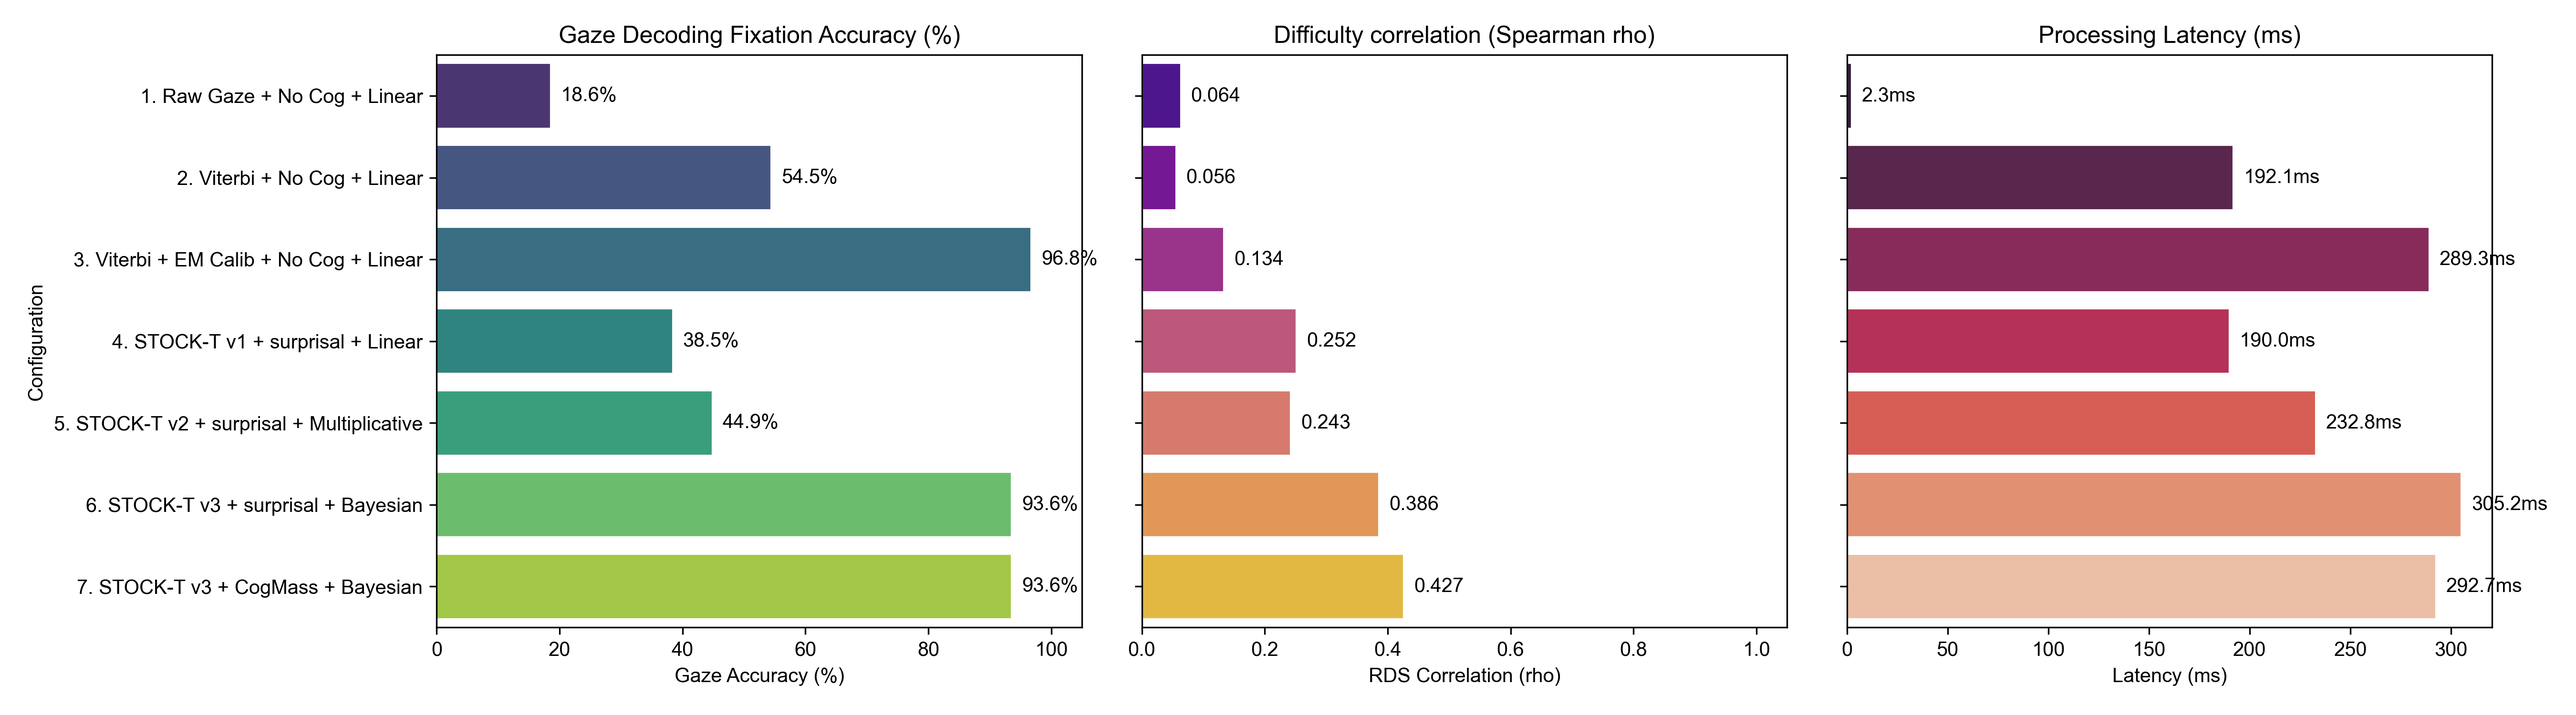
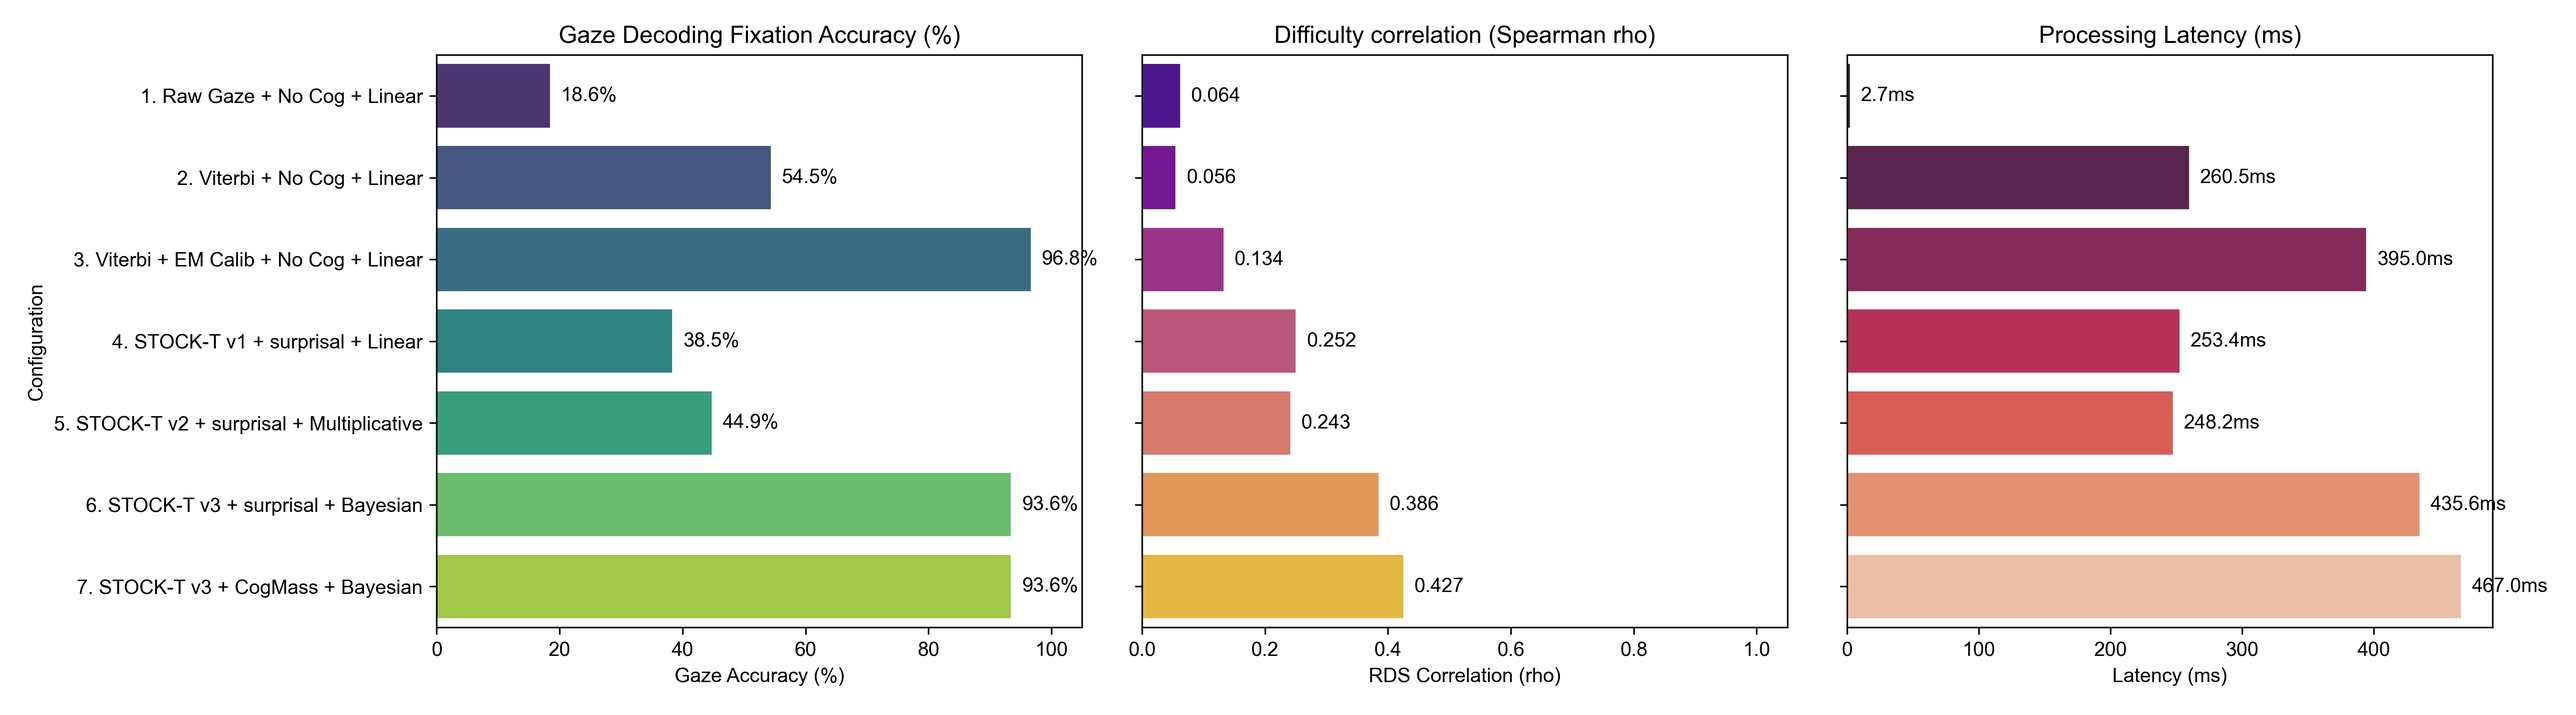
test: refresh scoped system diagnostic

diff --git a/PROJECT_OVERVIEW.md b/PROJECT_OVERVIEW.md
@@ -592,13 +592,15 @@ Data extracted from `output/demo_system_comparison.csv`:
 
 | Pipeline Configuration | Gaze Decoder | Cognitive Pipeline | Fusion Method | Gaze Accuracy (%) | RDS Correlation ($\rho$) | Latency (ms) | Academic Significance |
 | :--- | :--- | :--- | :--- | :---: | :---: | :---: | :--- |
-| **1. Raw Baseline** | Nearest Box (`nearest_box`) | None (`none`) | Linear | **18.59%** | 0.0636 | **2.34 ms** | Vulnerable to vertical drift (+45px). |
-| **2. Viterbi Base** | Standard HMM (`viterbi_base`) | None (`none`) | Linear | **54.49%** | 0.0561 | 192.06 ms | Saccade priors filter high-frequency noise. |
-| **3. Viterbi + EM** | Auto-Calibrating (`viterbi_em`) | None (`none`) | Linear | **96.79%** | 0.1342 | 289.29 ms | Highest gaze accuracy in this seeded simulation. |
-| **4. STOCK-T v1** | Attention-guided transition | Surprisal (`surprisal`) | Linear | **38.46%** | 0.2519 | 189.97 ms | Cognitive transition diagnostic. |
-| **5. STOCK-T v2** | Cognitive transition | Surprisal (`surprisal`) | Multiplicative | **44.87%** | 0.2428 | 232.85 ms | Multiplicative fusion diagnostic. |
-| **6. STOCK-T v3** | POM + EM | Surprisal (`surprisal`) | Bayesian | **93.59%** | 0.3864 | 305.19 ms | High simulated gaze recovery. |
-| **7. STOCK-T v3 + CogMass** | POM + EM | Cognitive mass | Bayesian | **93.59%** | **0.4267** | 292.67 ms | Best single-trial RDS correlation; provenance-risk for predictive claims. |
+| **1. Raw Baseline** | Nearest Box (`nearest_box`) | None (`none`) | Linear | **18.59%** | 0.0636 | **2.68 ms** | Vulnerable to vertical drift (+45px). |
+| **2. Viterbi Base** | Standard HMM (`viterbi_base`) | None (`none`) | Linear | **54.49%** | 0.0561 | 260.48 ms | Saccade priors filter high-frequency noise. |
+| **3. Viterbi + EM** | Auto-Calibrating (`viterbi_em`) | None (`none`) | Linear | **96.79%** | 0.1342 | 394.96 ms | Highest gaze accuracy in this seeded simulation. |
+| **4. STOCK-T v1** | Attention-guided transition | Surprisal (`surprisal`) | Linear | **38.46%** | 0.2519 | 253.41 ms | Cognitive transition diagnostic. |
+| **5. STOCK-T v2** | Cognitive transition | Surprisal (`surprisal`) | Multiplicative | **44.87%** | 0.2428 | 248.19 ms | Multiplicative fusion diagnostic. |
+| **6. STOCK-T v3** | POM + EM | Surprisal (`surprisal`) | Bayesian | **93.59%** | 0.3864 | 435.57 ms | High simulated gaze recovery. |
+| **7. STOCK-T v3 + CogMass** | POM + EM | Cognitive mass | Bayesian | **93.59%** | **0.4267** | 467.00 ms | Best single-trial RDS correlation; provenance-risk for predictive claims. |
+
+Latency is host-load dependent; the manifest records the exact hardware and per-run values.
 
 ---
 

diff --git a/INSTRUCTION.md b/INSTRUCTION.md
@@ -165,13 +165,13 @@ This simulates webcam drift (+45px vertical drift, 30-40px jitter) on a 156-word
 
 | Configuration | Gaze Accuracy (%) | RDS Correlation ($\rho$) | Latency (ms) | Target Optimization Direction |
 | :--- | :---: | :---: | :---: | :--- |
-| **Raw Gaze + No Cog + Linear** | 18.59% | 0.0636 | ~2 ms | **Baseline**: Heavily impacted by calibration drift. |
-| **Viterbi + No Cog + Linear** | 54.49% | 0.0561 | ~192 ms | **Spatio-Temporal Prior**: Corrects some drift but lacks online tuning. |
-| **Viterbi + EM Calib + No Cog** | **96.79%** | 0.1342 | ~289 ms | **EM Self-Calibration**: Highest gaze accuracy in this seeded simulation. |
-| **STOCK-T v3 + surprisal + Bayesian** | 93.59% | 0.3864 | ~305 ms | **Joint Diagnostic**: High simulated recovery without CogMass. |
-| **STOCK-T v3 + CogMass + Bayesian** | 93.59% | **0.4267** | ~293 ms | **Provenance-risk diagnostic**: not eligible for predictive claims. |
+| **Raw Gaze + No Cog + Linear** | 18.59% | 0.0636 | ~3 ms | **Baseline**: Heavily impacted by calibration drift. |
+| **Viterbi + No Cog + Linear** | 54.49% | 0.0561 | ~260 ms | **Spatio-Temporal Prior**: Corrects some drift but lacks online tuning. |
+| **Viterbi + EM Calib + No Cog** | **96.79%** | 0.1342 | ~395 ms | **EM Self-Calibration**: Highest gaze accuracy in this seeded simulation. |
+| **STOCK-T v3 + surprisal + Bayesian** | 93.59% | 0.3864 | ~436 ms | **Joint Diagnostic**: High simulated recovery without CogMass. |
+| **STOCK-T v3 + CogMass + Bayesian** | 93.59% | **0.4267** | ~467 ms | **Provenance-risk diagnostic**: not eligible for predictive claims. |
 
-These are single-participant simulation diagnostics. Do not interpret them as cross-subject prediction or tune production thresholds from this table.
+These are single-participant simulation diagnostics, and latency changes with host load. Do not interpret them as cross-subject prediction or tune production thresholds from this table.
 
 ### Diagnostic 5.2: Multimodal Fusion Calibration
 To compare the eleven mathematical fusion methods on GECO:
